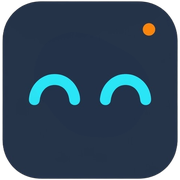
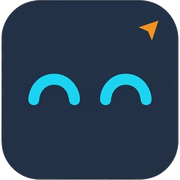
feat(brand): use new Study Lab mark with orange arrow
Replace favicons and logo assets with the provided squircle mark
(cyan eyes + orange arrow) and default the Logo component to the PNG.

diff --git a/frontend/src/components/brand/logo.tsx b/frontend/src/components/brand/logo.tsx
@@ -4,18 +4,18 @@ import { cn } from "@/lib/utils";
 type Props = {
   className?: string;
   size?: number;
-  /** PNG cutout (default) or crisp SVG mark. */
+  /** Raster mark from brand kit, or crisp SVG fallback. */
   variant?: "png" | "svg";
   priority?: boolean;
-  /** Hide text for icon-only placements. */
+  /** Show Study Lab wordmark beside the mark. */
   withWordmark?: boolean;
 };
 
-/** Study Lab logo — navy face, cyan eyes, orange status dot. */
+/** Study Lab logo — navy squircle, cyan eyes, orange arrow accent. */
 export function Logo({
   className,
   size = 32,
-  variant = "svg",
+  variant = "png",
   priority = false,
   withWordmark = false,
 }: Props) {
@@ -31,20 +31,20 @@ export function Logo({
         aria-label="Study Lab"
         className="shrink-0"
       >
-        <rect width="128" height="128" rx="34" fill="#233249" />
+        <rect width="128" height="128" rx="34" fill="#213146" />
         <path
-          d="M28 76A18 18 0 0 0 64 76"
-          stroke="#3DE0FF"
-          strokeWidth="13"
+          d="M28 74A20 20 0 0 0 64 74"
+          stroke="#20D1ED"
+          strokeWidth="14"
           strokeLinecap="round"
         />
         <path
-          d="M64 76A18 18 0 0 0 100 76"
-          stroke="#3DE0FF"
-          strokeWidth="13"
+          d="M64 74A20 20 0 0 0 100 74"
+          stroke="#20D1ED"
+          strokeWidth="14"
           strokeLinecap="round"
         />
-        <circle cx="106" cy="22" r="11" fill="#E85002" />
+        <path d="M92 22 L112 18 L100 36 Z" fill="#EE9226" />
       </svg>
     ) : (
       <Image
@@ -53,7 +53,7 @@ export function Logo({
         width={size}
         height={size}
         priority={priority}
-        className="shrink-0"
+        className="shrink-0 rounded-[22%]"
       />
     );
 
@@ -63,10 +63,7 @@ export function Logo({
 
   return (
     <span
-      className={cn(
-        "inline-flex min-w-0 items-center gap-2.5",
-        className,
-      )}
+      className={cn("inline-flex min-w-0 items-center gap-2.5", className)}
     >
       {mark}
       <span className="font-display truncate text-sm font-semibold tracking-tight">
